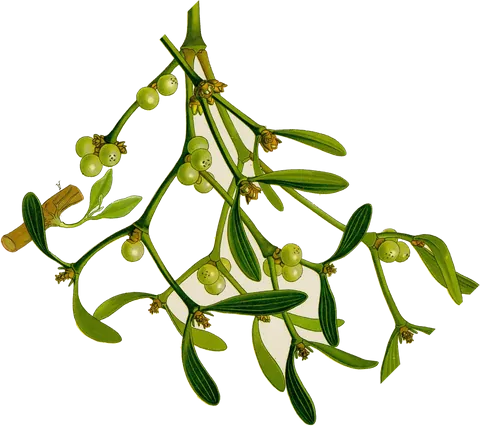
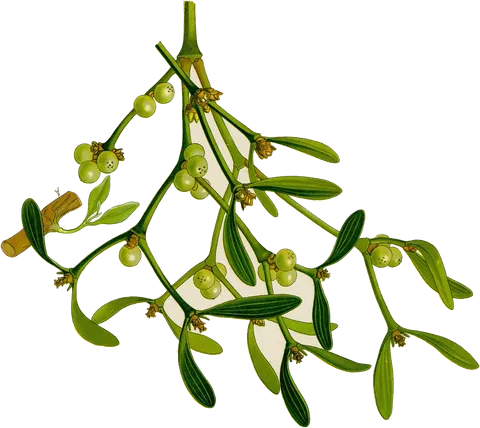
Cut the border plants along their whole outline, not a crop box
The cutter kept only ink inside a box per plate, so leaves crossing the
box's edge were sliced straight, and the scan's shaded sides came along
as grey strips. It now starts from the plant's middle and follows every
piece joined to it to its end, leaves out boxes of other drawings that
touch it, and drops the paper-coloured shadow along the scan's sides.

Claude-Session: https://claude.ai/code/session_01JrPyac6u1bGByCUQXqRrnt

Changed region(s): [[0.0, 0.0, 1.0, 1.0]]

diff --git a/assets/borders/cut_sprays.py b/assets/borders/cut_sprays.py
@@ -24,24 +24,25 @@ PAGE_PAPER = np.array([233, 225, 202], dtype=np.float32)
 # Longest side of a written spray, in pixels.
 MAX_SIDE = 480
 
-# (theme, corner, plate, the part of the plate holding the plant as (left, top, right, bottom)
-# fractions, degrees to turn anticlockwise, mirror). The top spray hangs from the top-left
+# (theme, corner, plate, a box (left, top, right, bottom, as fractions) round the plant's
+# middle, boxes of other drawings to leave out where they touch it, degrees to turn
+# anticlockwise, mirror). The top spray hangs from the top-left
 # corner; the bottom one rises from the bottom-right.
 SPRAYS = [
-    ("frost", "top", "Viscum_album", (0.03, 0.22, 0.97, 0.93), 225, False),
-    ("frost", "bottom", "Helleborus_niger", (0.22, 0.04, 0.72, 0.95), 45, False),
-    ("blossom", "top", "Prunus_avium", (0.03, 0.05, 0.97, 0.93), 225, False),
-    ("blossom", "bottom", "Anemone_nemorosa", (0.1, 0.17, 0.85, 0.92), 45, False),
-    ("meadow", "top", "Centaurea_cyanus", (0.28, 0.03, 0.72, 0.92), 225, False),
-    ("meadow", "bottom", "Chrysanthemum_leucanthemum", (0.1, 0.03, 0.95, 0.92), 45, False),
-    ("autumn", "top", "Sorbus_aucuparia", (0.03, 0.07, 0.97, 0.93), 225, False),
-    ("autumn", "bottom", "Quercus_robur", (0.03, 0.2, 0.97, 0.9), 45, False),
-    ("christmas", "top", "Ilex_aquifolium", (0.04, 0.03, 0.96, 0.93), 225, False),
-    ("christmas", "bottom", "Viscum_album", (0.03, 0.22, 0.97, 0.93), 45, True),
-    ("easter", "top", "Salix_caprea", (0.05, 0.05, 0.97, 0.86), 225, False),
-    ("easter", "bottom", "Anemone_nemorosa", (0.1, 0.17, 0.85, 0.92), 45, True),
-    ("midsummer", "top", "Chrysanthemum_leucanthemum", (0.1, 0.03, 0.95, 0.92), 225, True),
-    ("midsummer", "bottom", "Centaurea_cyanus", (0.28, 0.03, 0.72, 0.92), 45, True),
+    ("frost", "top", "Viscum_album", (0.03, 0.22, 0.97, 0.93), [], 225, False),
+    ("frost", "bottom", "Helleborus_niger", (0.22, 0.04, 0.72, 0.95), [], 45, False),
+    ("blossom", "top", "Prunus_avium", (0.1, 0.1, 0.85, 0.9), [(0.88, 0.1, 1.0, 0.45)], 225, False),
+    ("blossom", "bottom", "Anemone_nemorosa", (0.1, 0.17, 0.85, 0.92), [], 45, False),
+    ("meadow", "top", "Centaurea_cyanus", (0.28, 0.03, 0.72, 0.92), [], 225, False),
+    ("meadow", "bottom", "Chrysanthemum_leucanthemum", (0.1, 0.03, 0.95, 0.92), [], 45, False),
+    ("autumn", "top", "Sorbus_aucuparia", (0.15, 0.1, 0.85, 0.9), [], 225, False),
+    ("autumn", "bottom", "Quercus_robur", (0.3, 0.4, 0.9, 0.85), [(0.0, 0.0, 0.42, 0.5)], 45, False),
+    ("christmas", "top", "Ilex_aquifolium", (0.04, 0.03, 0.96, 0.93), [], 225, False),
+    ("christmas", "bottom", "Viscum_album", (0.03, 0.22, 0.97, 0.93), [], 45, True),
+    ("easter", "top", "Salix_caprea", (0.05, 0.05, 0.97, 0.86), [], 225, False),
+    ("easter", "bottom", "Anemone_nemorosa", (0.1, 0.17, 0.85, 0.92), [], 45, True),
+    ("midsummer", "top", "Chrysanthemum_leucanthemum", (0.1, 0.03, 0.95, 0.92), [], 225, True),
+    ("midsummer", "bottom", "Centaurea_cyanus", (0.28, 0.03, 0.72, 0.92), [], 45, True),
 ]
 
 
@@ -67,9 +68,11 @@ def paper_colour(pixels):
     return np.asarray(big, dtype=np.float32)
 
 
-def plant_mask(pixels, paper, keep):
-    """Pixels that are ink, not paper, inside `keep` (left, top, right, bottom, as fractions),
-    with paper wholly enclosed by small loops of ink (petals, berries) filled in."""
+def plant_mask(pixels, paper, keep, drops):
+    """Pixels that are the plant, not paper, with paper wholly enclosed by small loops of ink
+    (petals, berries) filled in. The plant is the biggest piece of ink inside `keep` (left,
+    top, right, bottom, as fractions), followed out past the box's edges so no leaf is cut
+    off, but never into a `drops` box (a neighbouring drawing that touches it)."""
     height, width = pixels.shape[:2]
     distance = np.sqrt(((pixels - paper) ** 2).sum(axis=2))
     ink = distance > 42
@@ -78,19 +81,34 @@ def plant_mask(pixels, paper, keep):
     chroma = pixels.max(axis=2) - pixels.min(axis=2)
     darker = paper.mean(axis=2) - pixels.mean(axis=2)
     ink &= ~((chroma < 30) & (darker > 0) & (darker < 70))
+    # So is the shadow along the scan's sides: the paper's own colour, only dimmer.
+    ratio = pixels / np.maximum(paper, 1)
+    spread = ratio.max(axis=2) - ratio.min(axis=2)
+    dimmed = ratio.mean(axis=2)
+    sides = np.zeros_like(ink)
+    sides[:, :int(0.12 * width)] = sides[:, -int(0.12 * width):] = True
+    ink &= ~(sides & (spread < 0.1) & (dimmed > 0.5) & (dimmed < 0.97))
+    # The scan's own edge is never plant.
+    edge = int(0.04 * width)
+    ink[:edge] = ink[-edge:] = False
+    ink[:, :edge] = ink[:, -edge:] = False
+    for left, top, right, bottom in drops:
+        ink[int(top * height):int(bottom * height), int(left * width):int(right * width)] = False
+    ink = ndimage.binary_opening(ink, iterations=1)
+    # Merge the plant's parts across small gaps.
+    joined = ndimage.binary_dilation(ink, iterations=2)
     left, top, right, bottom = keep
     box = np.zeros_like(ink)
     box[int(top * height):int(bottom * height), int(left * width):int(right * width)] = True
-    ink = ndimage.binary_opening(ink & box, iterations=1)
-    # Merge the plant's parts across small gaps, then keep the biggest piece: the plant, not
-    # the numbered details or the caption.
-    joined = ndimage.binary_dilation(ink, iterations=2)
-    labels, count = ndimage.label(joined)
+    labels, count = ndimage.label(joined & box)
     if count == 0:
         raise ValueError("no ink")
     sizes = ndimage.sum(ink, labels, range(1, count + 1))
-    main = labels == (1 + int(np.argmax(sizes)))
-    mask = ink & main
+    seed = labels == (1 + int(np.argmax(sizes)))
+    # The whole of every piece the seed belongs to, inside or outside the box.
+    pieces, _ = ndimage.label(joined)
+    whole = np.isin(pieces, np.unique(pieces[seed]))
+    mask = ink & whole
     mask = ndimage.binary_closing(mask, iterations=2)
     holes, count = ndimage.label(ndimage.binary_fill_holes(mask) & ~mask)
     sizes = ndimage.sum(np.ones_like(mask), holes, range(1, count + 1))
@@ -98,11 +116,11 @@ def plant_mask(pixels, paper, keep):
     return mask | small
 
 
-def cut(path, keep, degrees, mirror):
+def cut(path, keep, drops, degrees, mirror):
     image = Image.open(path).convert("RGB")
     pixels = np.asarray(image, dtype=np.float32)
     paper = paper_colour(pixels)
-    mask = plant_mask(pixels, paper, keep)
+    mask = plant_mask(pixels, paper, keep, drops)
     # Tone the plate's paper to the page's, so the spray's edges sit on one sheet.
     toned = np.clip(pixels * (PAGE_PAPER / np.maximum(paper, 1)), 0, 255)
     alpha = ndimage.gaussian_filter(mask.astype(np.float32), 1.0)
@@ -121,8 +139,8 @@ def cut(path, keep, degrees, mirror):
 def main():
     plates, out = Path(sys.argv[1]), Path(sys.argv[2])
     out.mkdir(parents=True, exist_ok=True)
-    for theme, corner, plate, keep, degrees, mirror in SPRAYS:
-        spray = cut(plates / f"{plate}.jpg", keep, degrees, mirror)
+    for theme, corner, plate, keep, drops, degrees, mirror in SPRAYS:
+        spray = cut(plates / f"{plate}.jpg", keep, drops, degrees, mirror)
         spray.save(out / f"{theme}-{corner}.webp", quality=80, method=6)
         print(theme, corner, plate, spray.size)
 
